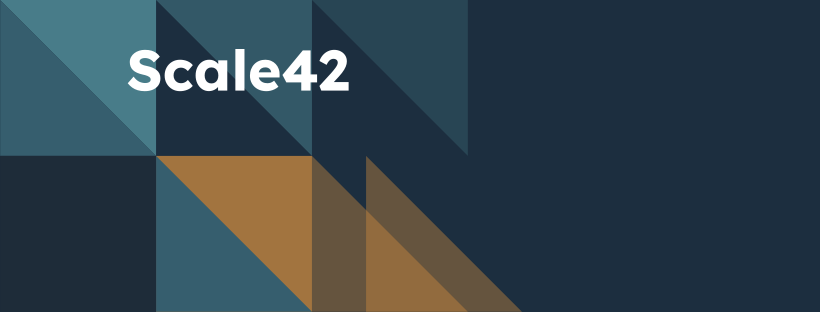
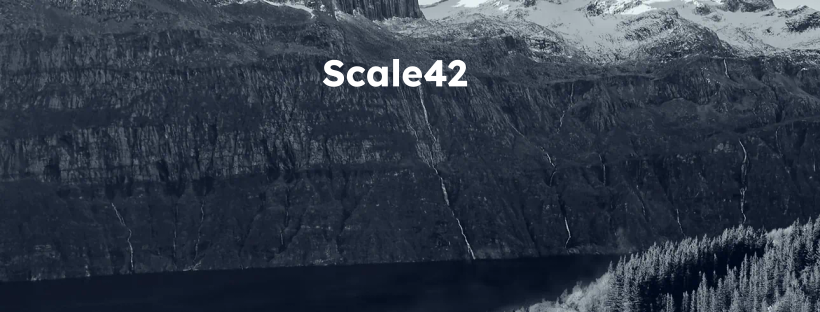
brand: use hero.webp (focal 1289x843) as social PNG background

diff --git a/scripts/gen-social.js b/scripts/gen-social.js
@@ -5,13 +5,17 @@ const ROOT = path.resolve(__dirname, '..');
 const OUT = path.join(ROOT, 'assets', 'social');
 fs.mkdirSync(OUT, { recursive: true });
 
-const markSvg = fs.readFileSync(path.join(ROOT, 'assets', 'logo-mark.svg'));
+const heroPath = path.join(ROOT, 'assets', 'hero.webp');
 const wordmarkSvg = fs.readFileSync(path.join(ROOT, 'assets', 'logo-wordmark-white.svg'));
 
-// Source mark dimensions (from viewBox)
-const MARK_W = 966;
-const MARK_H = 575;
-const MARK_AR = MARK_W / MARK_H;
+// hero.webp full size and focal box (user-specified)
+const HERO_W = 1800;
+const HERO_H = 1130;
+const FOCAL_W = 1289;
+const FOCAL_H = 843;
+// Focal center: top-left region of hero (where mark+wordmark sit in source)
+const FOCAL_CX = FOCAL_W / 2;
+const FOCAL_CY = FOCAL_H / 2;
 
 const NAVY = { r: 0x1c, g: 0x2e, b: 0x3f };
 
@@ -32,41 +36,36 @@ const specs = [
 
 (async () => {
   for (const [name, W, H] of specs) {
-    // Canvas: solid navy
-    const canvas = sharp({
-      create: { width: W, height: H, channels: 4, background: { ...NAVY, alpha: 1 } }
-    });
+    // Scale hero so the focal box covers the output canvas, then crop so focal-center
+    // sits at canvas-center. Clamp crop within hero bounds.
+    const scale = Math.max(W / FOCAL_W, H / FOCAL_H);
+    const scaledW = Math.round(HERO_W * scale);
+    const scaledH = Math.round(HERO_H * scale);
+    const focalCxS = FOCAL_CX * scale;
+    const focalCyS = FOCAL_CY * scale;
+    let cropLeft = Math.round(focalCxS - W / 2);
+    let cropTop = Math.round(focalCyS - H / 2);
+    cropLeft = Math.max(0, Math.min(scaledW - W, cropLeft));
+    cropTop = Math.max(0, Math.min(scaledH - H, cropTop));
 
-    // Mosaic mark: fill height keeping aspect, anchored to LEFT edge.
-    // If markW > W, keep the LEFT portion of the mark visible (crop the right overflow).
-    const markH = H;
-    const markW = Math.round(markH * MARK_AR);
-    const mark = await sharp(markSvg, { density: 400 })
-      .resize({ width: markW, height: markH, fit: 'fill' })
+    const heroBg = await sharp(heroPath)
+      .resize({ width: scaledW, height: scaledH, fit: 'fill' })
+      .extract({ left: cropLeft, top: cropTop, width: W, height: H })
       .png().toBuffer();
-    let markComp = mark;
-    let mLeft = 0;
-    let visibleMarkW = markW;
-    if (markW > W) {
-      markComp = await sharp(mark).extract({ left: 0, top: 0, width: W, height: H }).png().toBuffer();
-      visibleMarkW = W;
-    }
 
-    // Wordmark: centered horizontally over the visible mark, vertically in the upper triangles
-    // (top quadrant of mark — y range 0..H/2, centered at H/4)
-    const wmTargetW = Math.round(Math.min(visibleMarkW * 0.55, W * 0.45));
+    // Wordmark: centered horizontally, placed in upper third of canvas
+    const wmTargetW = Math.round(Math.min(W * 0.45, H * 0.6));
     const wm = await sharp(wordmarkSvg, { density: 400 })
       .resize({ width: wmTargetW })
       .png().toBuffer();
     const wmMeta = await sharp(wm).metadata();
-    const wmLeft = Math.round(mLeft + (visibleMarkW - wmMeta.width) / 2);
+    const wmLeft = Math.round((W - wmMeta.width) / 2);
     const wmTop = Math.round(H / 4 - wmMeta.height / 2);
 
     const out = path.join(OUT, `${name}.png`);
-    await canvas
+    await sharp(heroBg)
       .composite([
-        { input: markComp, left: mLeft, top: 0 },
-        { input: wm, left: Math.max(0, wmLeft), top: Math.max(0, wmTop) },
+        { input: wm, left: Math.max(8, wmLeft), top: Math.max(8, wmTop) },
       ])
       .png({ compressionLevel: 9 })
       .toFile(out);
